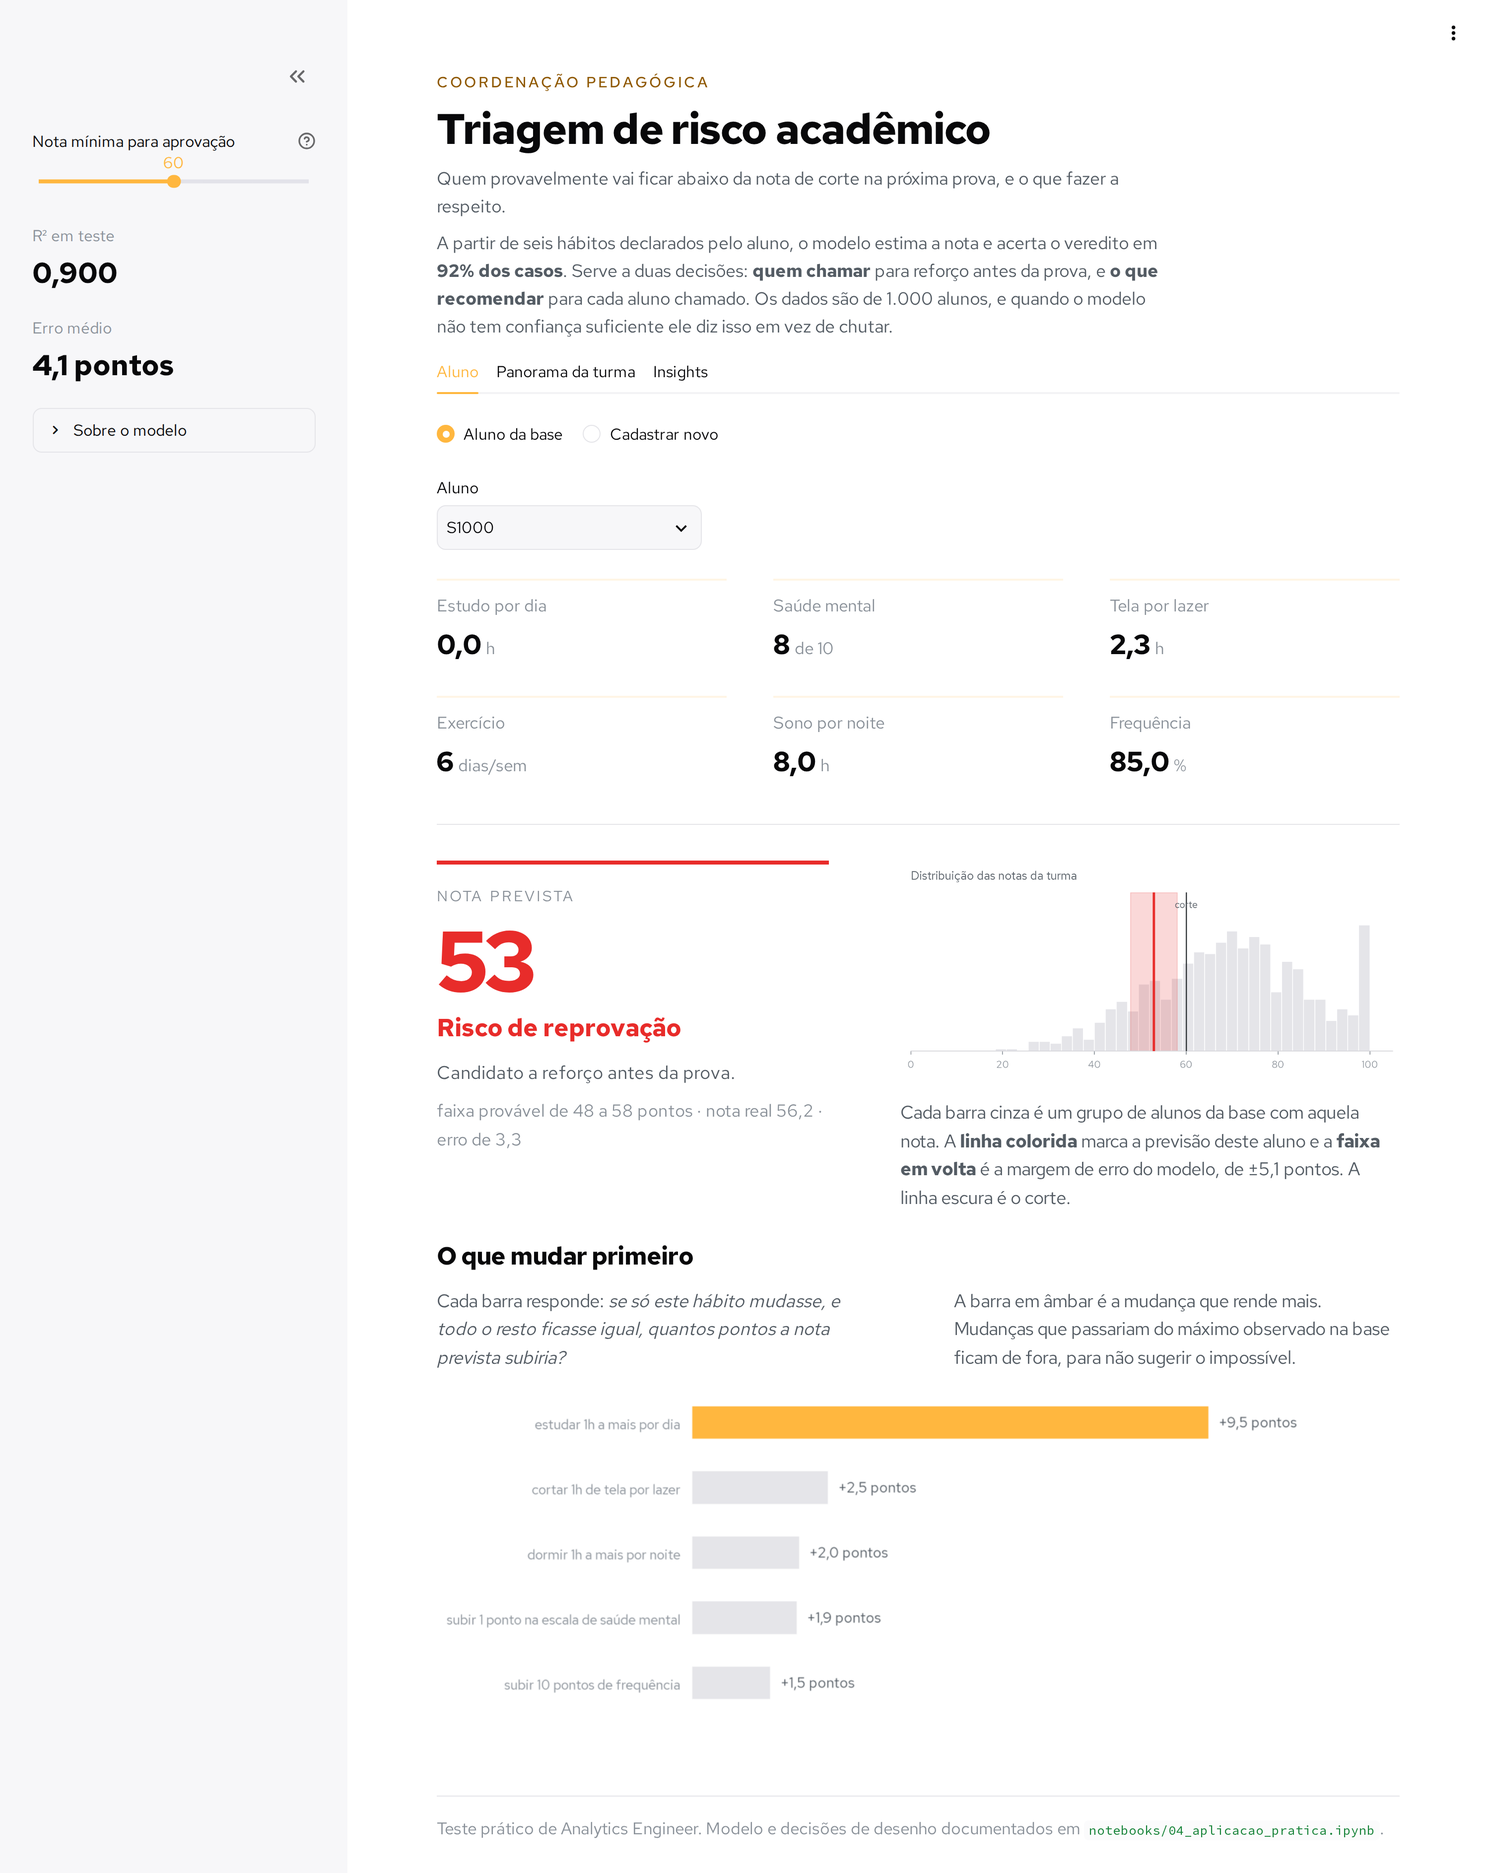
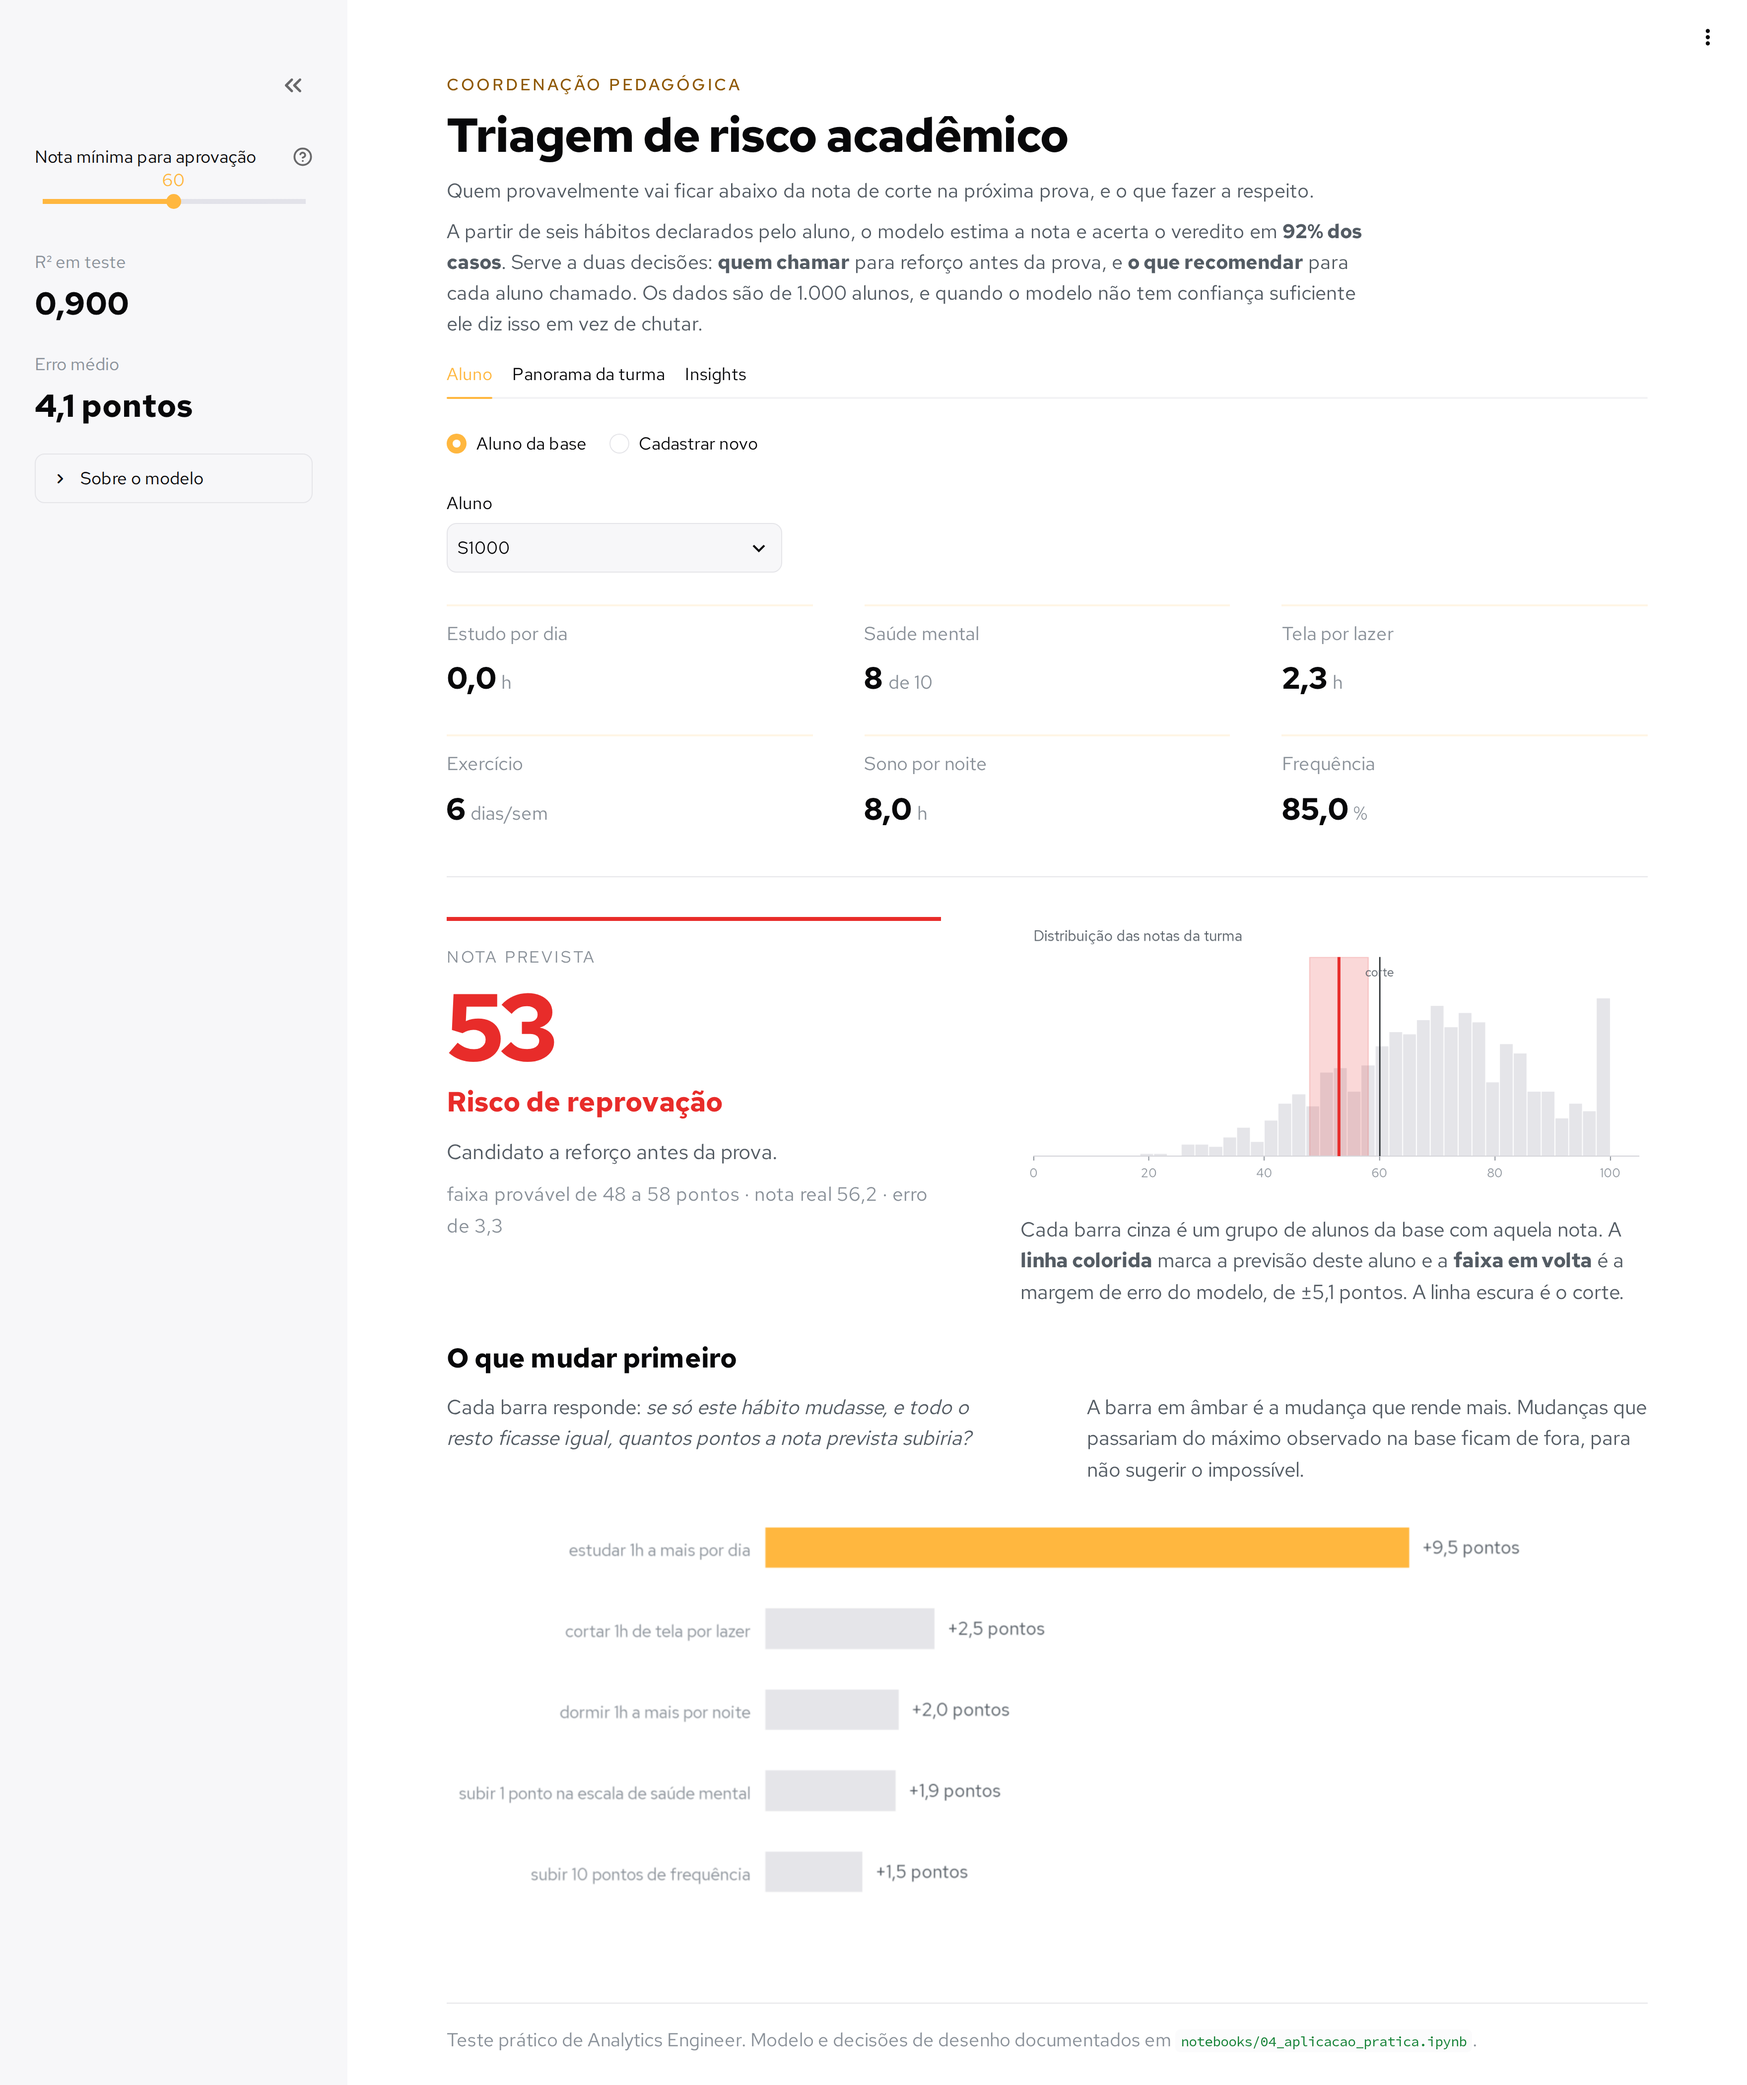
Aumenta a escala da interface
Em monitor de trabalho o app ficava pequeno no meio de muito espaço vazio:
o conteúdo estava travado em 1160px e a fonte base em 18px.

Passa a 1450px de largura e 20px de fonte, o que em tela de 1920 preenche
o espaço deixando 60px de respiro à direita, e em 1366 o Streamlit reduz
sozinho sem criar rolagem horizontal. A medida do texto corrido vai de 62
para 72 caracteres por linha, ainda dentro da faixa confortável de leitura.

Screenshots refeitas na escala nova.

diff --git a/app.py b/app.py
@@ -524,7 +524,10 @@ st.set_page_config(page_title="Triagem de risco acadêmico", layout="wide")
 st.markdown(
     f"""
     <style>
-      .block-container {{ padding-top: 3rem; padding-bottom: 4.5rem; max-width: 1160px; }}
+      /* Largura pensada para tela de trabalho: em 1920 o conteúdo preenche
+         sem colar nas bordas, e em tela menor o Streamlit reduz sozinho. */
+      .block-container {{ padding-top: 2.6rem; padding-bottom: 4.5rem;
+        max-width: 1450px; }}
       section[data-testid="stSidebar"] {{ width: 350px !important; }}
       section[data-testid="stSidebar"] > div {{ padding-top: 2.4rem; }}
 
@@ -545,7 +548,9 @@ st.markdown(
         color: {COR["marca_tinta"]}; font-weight: 500; margin-bottom: .6rem; }}
       .titulo {{ font-size: 2.4rem; font-weight: 700; letter-spacing: -.022em;
         line-height: 1.12; margin: 0 0 .65rem 0; }}
-      .linhafina {{ color: {COR["tinta_2"]}; font-size: 1.06rem; max-width: 62ch;
+      /* 72 caracteres por linha: ainda dentro da faixa confortável de leitura
+         (45 a 75), mas preenche melhor a largura nova do contêiner. */
+      .linhafina {{ color: {COR["tinta_2"]}; font-size: 1.06rem; max-width: 72ch;
         margin: 0 0 .5rem 0; line-height: 1.55; }}
 
       /* Legenda de gráfico não leva o limite de medida da linhafina: ela
